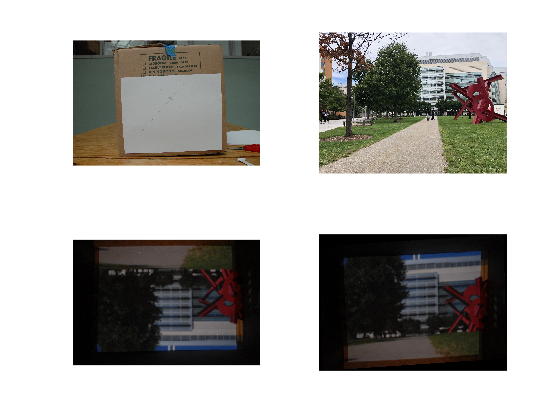
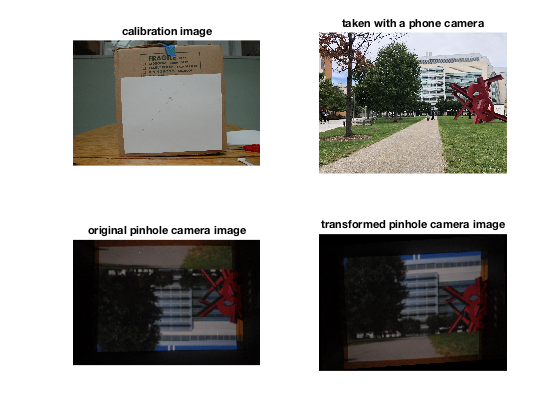
homography code finished and commented

diff --git a/homography.m b/homography.m
@@ -2,107 +2,73 @@
 calibration_image = imread('pictures/DSC_0243.jpg');
 pinhole_image = imread('pictures/DSC_0210.jpg');
 phone_image = imread('pictures/phone_statue.JPG');
-%%
+%% initialized coordinates
 
-figure
-subplot(121)
-imshow(calibration_image)
-subplot(122)
-imshow(pinhole_image)
+% figure
+% subplot(121)
+% imshow(calibration_image)
+% subplot(122)
+% imshow(pinhole_image)
 
-% a1 = [2602,1786];
-% b1 = [2878,1790];
-% a2 = [3026,850];
-% b2 = [3298,838];
-% a3 = [2050,2174];
-% b3 = [2326,2178];
-% a4 = [2166,794];
-% b4 = [2430,798];
 
 % we want to transform points a (a1-a2) to be in the same coordinate systems as
 % points in image b (b1-b4)
+% b1 = [996,778];
+% b2 = [3046,693];
+% b3 = [1080, 2322];
+% b4 = [3070,2249];
+% a1 = [525, 139];
+% a2 = [3275, 126];
+% a3 = [501, 2310];
+% a4 = [3396, 2261];
+
+
 b1 = [996,778];
 b2 = [3046,693];
 b3 = [1080, 2322];
 b4 = [3070,2249];
-a1 = [525, 139];
-a2 = [3275, 126];
-a3 = [501, 2310];
-a4 = [3396, 2261];
+a3 = [525, 139];
+a4 = [3275, 126];
+a1 = [501, 2310];
+a2 = [3396, 2261];
 
-%% tranlsation without rotation
+
+%%  perform translation with vertical flip
+
 h= calculate_homography(a1,b1,a2,b2,a3,b3,a4,b4);
 
 % conversion of vec h to homography matrix H
 H = [h(1:3,1)';h(4:6,1)';h(7:9,1)'];
 H_inv = H';
-H_inv = H_inv./H_inv(3,3)
-H_inv(:,3) = [0;0;1] % find more elegant solution!!!!
+H_inv = H_inv./H_inv(3,3); % normalize such that H(3,3) = 1
+% we have to set make sure that H(1,3) and H(2,3) are exactly zero otherwise H cannot be converted into an affine2d object
+% (it would be preferred if this step would not be necessary)
+H_inv(:,3) = round(H_inv(:,3)); 
 calibrated_image = imwarp(pinhole_image, affine2d(H_inv));
 
-
-figure
-subplot(221)
-imshow(pinhole_image)
-subplot(222)
-imshow(calibrated_image(:,:,1))
-subplot(223)
-imshow(calibration_image)
-
-
-%% translation with 180 degree rotation
-
-h= calculate_homography(a4,b1,a3,b2,a2,b3,a1,b4);
-
-% conversion of vec h to homography matrix H
-H = [h(1:3,1)';h(4:6,1)';h(7:9,1)'];
-H_inv = H';
-H_inv = H_inv./H_inv(3,3)
-H_inv(:,3) = [0;0;1] % find more elegant solution!!!!
-calibrated_image = imwarp(pinhole_image, affine2d(H_inv));
 
 
 figure
 subplot(221)
 imshow(calibration_image)
+title('calibration image')
 subplot(222)
 imshow(phone_image)
+title('taken with a phone camera')
 subplot(223)
 imshow(pinhole_image)
-subplot(224)
-imshow(calibrated_image(:,:,1))
-
-
-
-%% translation with vertical flip
-
-h= calculate_homography(a3,b1,a4,b2,a1,b3,a2,b4);
-
-% conversion of vec h to homography matrix H
-H = [h(1:3,1)';h(4:6,1)';h(7:9,1)'];
-H_inv = H';
-H_inv = H_inv./H_inv(3,3)
-H_inv(:,3) = [0;0;1] % find more elegant solution!!!!
-calibrated_image = imwarp(pinhole_image, affine2d(H_inv));
-
-
-
-figure
-subplot(221)
-imshow(calibration_image)
-subplot(222)
-imshow(phone_image)
-subplot(223)
-imshow(pinhole_image)
+title('original pinhole camera image')
 subplot(224)
 imshow(calibrated_image)
+title('transformed pinhole camera image')
 
 %% homography function
 
 
 function h = calculate_homography(a1,b1,a2,b2,a3,b3,a4,b4)
 % input: coordinates of corresponding points 
-% a and b coordinates of the same object in image A (red) and image B (blue)
+% a (pinhole image) and b (calibration image) (preferably the corners of the white paper) 
+% returns h: entries for transformation matrix in vector form
 
 % transfer points from image A into x,y coordinates (as used in matrix A)
     x_1 = a1(1);
@@ -115,7 +81,7 @@ function h = calculate_homography(a1,b1,a2,b2,a3,b3,a4,b4)
     y_4 = a4(2);
 
 
-    % transfer points from image b into x0,y0 coordinates
+    % transfer points from image b into x0,y0 coordinates (as used in matrix A)
     x0_1 = b1(1);
     y0_1 = b1(2);
     x0_2 = b2(1);
@@ -124,8 +90,7 @@ function h = calculate_homography(a1,b1,a2,b2,a3,b3,a4,b4)
     y0_3 = b3(2);
     x0_4 = b4(1);
     y0_4 = b4(2);
-    
-    
+       
     % define matrix A (A*h = 0)
     A = [-x_1,-y_1,-1,0,0,0,x_1*x0_1, y_1*x0_1, x0_1;
     0,0,0,-x_1,-y_1,-1,x_1*y0_1, y_1*y0_1, y0_1;
@@ -134,37 +99,26 @@ function h = calculate_homography(a1,b1,a2,b2,a3,b3,a4,b4)
     -x_3,-y_3,-1,0,0,0,x_3*x0_3, y_3*x0_3, x0_3;
     0,0,0,-x_3,-y_3,-1,x_3*y0_3, y_3*y0_3, y0_3;
     -x_4,-y_4,-1,0,0,0,x_4*x0_4, y_4*x0_4, x0_4;
-    0,0,0,-x_4,-y_4,-1,x_4*y0_4, y_4*y0_4, y0_4;
-    0 0 0 0 0 0 0 0 1];
+    0,0,0,-x_4,-y_4,-1,x_4*y0_4, y_4*y0_4, y0_4];
 
 
-    % we are looking for the eigenvector of A with the minimum 'eigenvalue'
-    % (eigenvalue as close to zero as possible)
     % singular value decomposition of A 
-    
-%     [U,S,V] = svd(A);
-    
-%   h will be the eigenvec with the smallest eigenvalue
-%   singular vectors of 
-%     h = V(:,8);
+%   h will be the eigenvec with the smallest sigma
+%   the singular vector that corresponds to sigma_min is the last column of
+%   V
+    [U,S,V] = svd(A);
+    h = V(:,8);
 
-    % alternative way: solve linear system (set )
-    b = zeros(9,1);
-    b(9,1) = 1;
-    
-    h = A\b
+
+    % alternative way: solve linear system (add another row (0 0 0 0 0 0 0 0 1) to A and solve for A*h = b)
+%   A(9,:) = [0 0 0 0 0 0 0 0 1]
+%   b = zeros(9,1);
+%   b(9,1) = 1;
+%     
+%   h = A\b
  
 end
 
-% [x_1,y_1]=;
-% [x0_1,y0_1] = ;
-% [x_2,y_2]=;
-% [x0_2,y0_2] = ;
-% [x_3,y_3]=;
-% [x0_3,y0_3] = ;
-% [x_4,y_4]=;
-% [x0_4,y0_4] = ;
 
-% perform SVD of A
 
 
